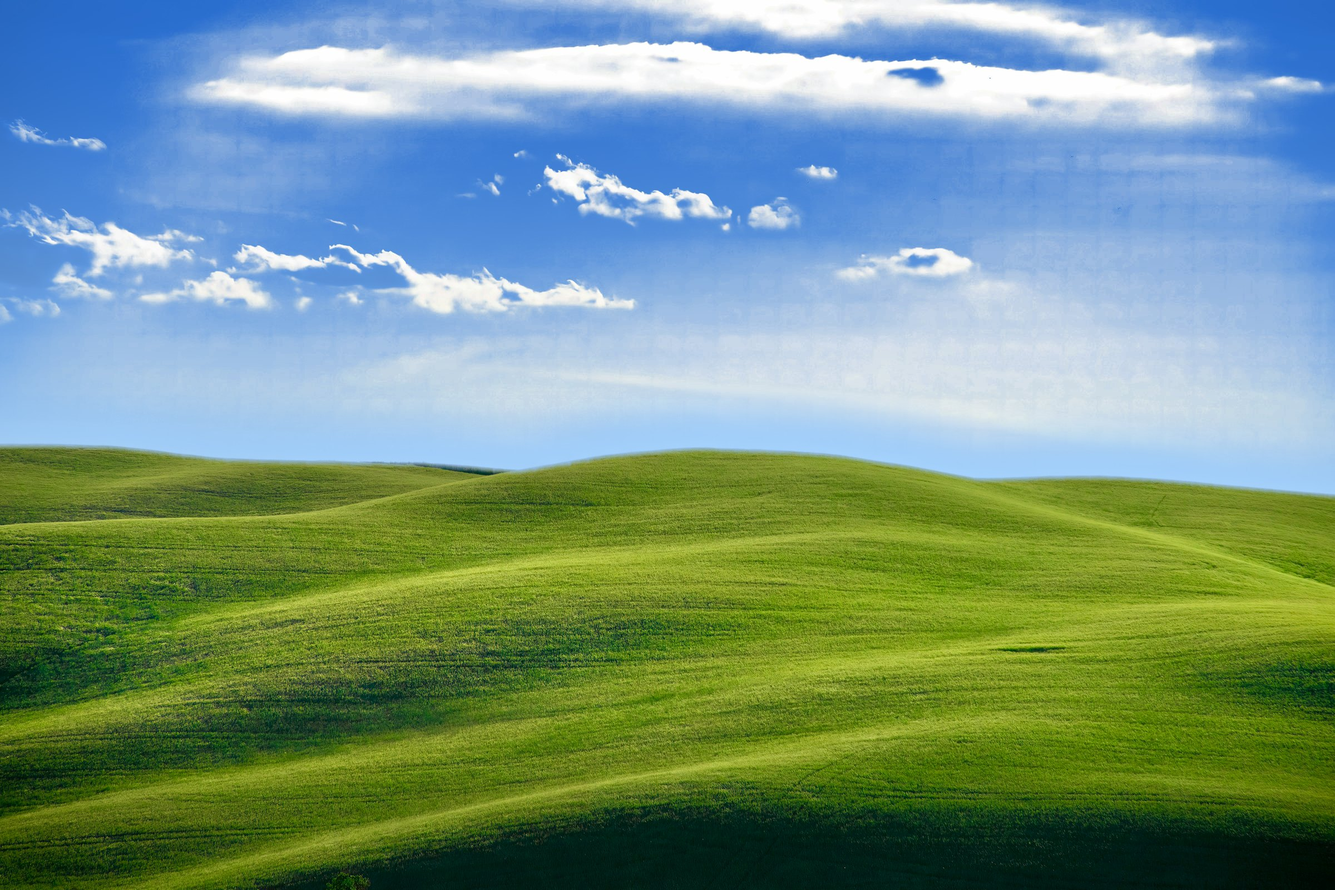
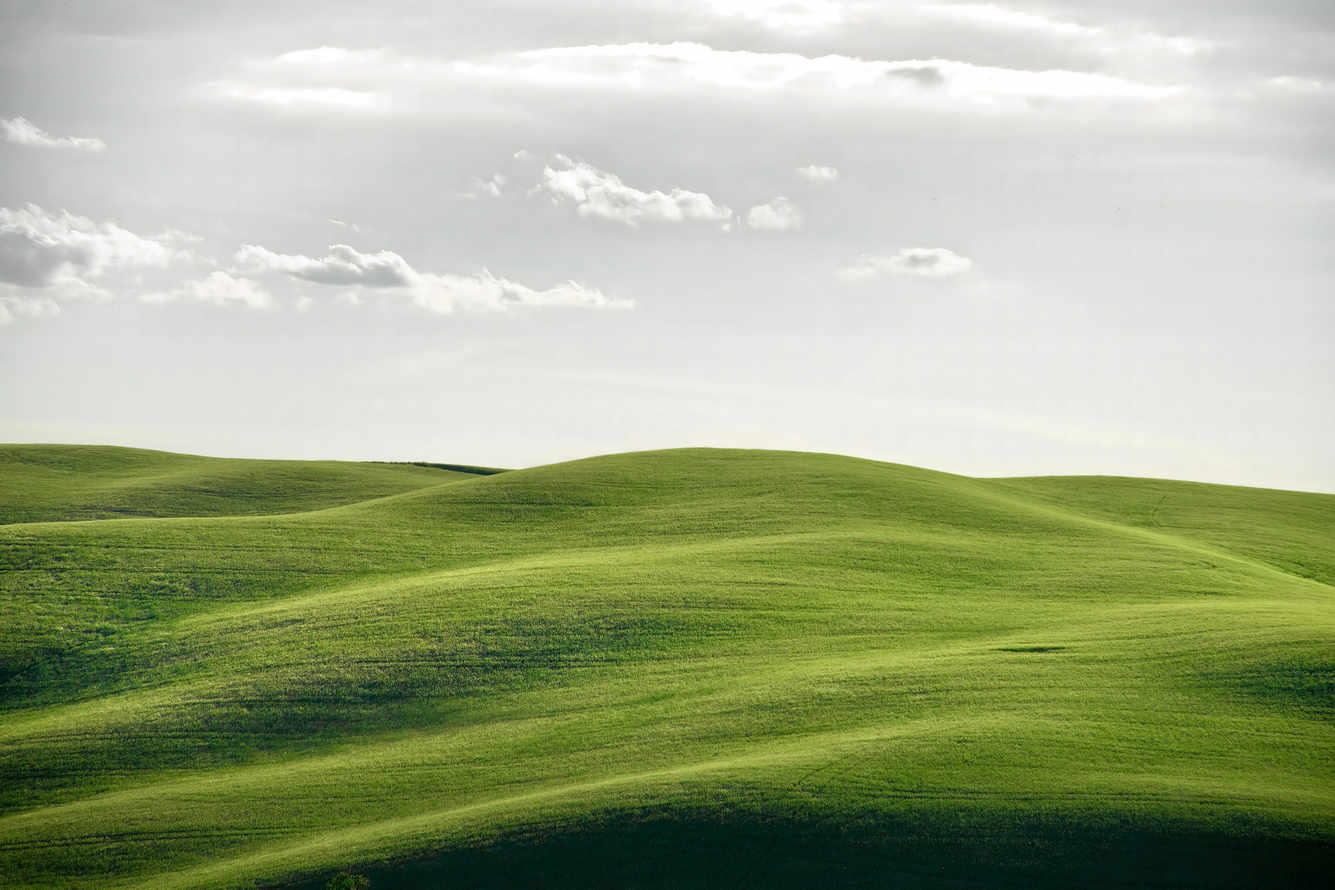
Landing page: original Tuscany photo, bright blue accent
- Back to the unedited photo
- Accent colour is now bright blue instead of orange: buttons, the
  underscores, highlights, delivered tags, and the courier's cap

diff --git a/site/deploy/index.html b/site/deploy/index.html
@@ -11,7 +11,7 @@
 <style>
 /* Layout: dark-first product page. Big confident type and a stat row up top, mono "_names" for
    every product and section, cargo-manifest panels as the one recurring object,
-   container orange as Freighter's product colour. Single dark look by design. */
+   bright blue as Freighter's product colour. Single dark look by design. */
 :root{
   --bg:#0a0b0d;
   --bg-2:#111317;
@@ -21,9 +21,10 @@
   --ink:#f1f2f4;
   --muted:#9aa0aa;
   --dim:#666d78;
-  --cargo:#ff6b1a;          /* Freighter: shipping-container orange */
-  --cargo-ink:#140700;
-  --cargo-soft:rgba(255,107,26,.12);
+  --cargo:#3d8bff;          /* Freighter: bright blue, for text and marks on dark */
+  --cargo-fill:#1671f0;     /* the same blue for filled buttons and tags, deep enough for white text */
+  --cargo-ink:#ffffff;
+  --cargo-soft:rgba(61,139,255,.14);
   --manifest:#7fd1c7;       /* _Manifest: the free scan's own colour */
   --ok:#62d38f;
   --font-display:"Sora","Segoe UI",system-ui,sans-serif;
@@ -58,8 +59,8 @@ body::before{content:"";position:fixed;inset:0 0 auto;height:env(safe-area-inset
 .links a:hover{color:var(--ink)}
 .pill{display:inline-flex;align-items:center;justify-content:center;gap:8px;border-radius:999px;font:600 15px/1 var(--font-body);
   padding:13px 22px;text-decoration:none;border:1px solid transparent;cursor:pointer;white-space:nowrap}
-.pill-cargo{background:var(--cargo);color:var(--cargo-ink)}
-.pill-cargo:hover{background:#ff8340}
+.pill-cargo{background:var(--cargo-fill);color:var(--cargo-ink)}
+.pill-cargo:hover{background:#2f85ff}
 .pill-ghost{background:transparent;color:var(--ink);border-color:var(--line-2)}
 .pill-ghost:hover{border-color:var(--muted)}
 .pill.sm{padding:9px 16px;font-size:14px}
@@ -91,7 +92,7 @@ body::before{content:"";position:fixed;inset:0 0 auto;height:env(safe-area-inset
 .desk .tag{position:absolute;z-index:1;transform:translateX(-50%);white-space:nowrap;font:600 11.5px/1.2 var(--font-body);
   color:#fff;text-shadow:0 1px 2px rgba(0,0,0,.9),0 0 5px rgba(0,0,0,.5);padding:1px 5px;border-radius:3px;
   transition:background .3s;pointer-events:none}
-.desk .tag.done{background:rgba(255,107,26,.92);text-shadow:none;color:var(--cargo-ink)}
+.desk .tag.done{background:var(--cargo-fill);text-shadow:none;color:var(--cargo-ink)}
 .desk .tag.done::before{content:"\2713\00a0"}
 .photo-credit{position:absolute;right:max(10px,env(safe-area-inset-right,0px));bottom:8px;z-index:3;font-size:11px;color:rgba(255,255,255,.75)}
 .photo-credit a{color:inherit}
@@ -158,7 +159,7 @@ ul.ticks li small{display:block;color:var(--dim);font-size:14px}
 /* pricing */
 .price{display:grid;grid-template-columns:repeat(2,minmax(0,1fr));gap:16px}
 .price .card{padding:30px;gap:16px}
-.price .card.hl{border-color:rgba(255,107,26,.55);background:linear-gradient(180deg,rgba(255,107,26,.08),var(--panel) 45%)}
+.price .card.hl{border-color:rgba(61,139,255,.6);background:linear-gradient(180deg,rgba(61,139,255,.10),var(--panel) 45%)}
 .price .name{font-family:var(--font-mono);font-size:24px;font-weight:700}
 .price .name .us{color:var(--manifest)}
 .price .hl .name .us{color:var(--cargo)}
@@ -261,7 +262,7 @@ footer .wrap{display:flex;flex-wrap:wrap;justify-content:space-between;gap:12px}
     </div>
     <canvas id="yard" aria-hidden="true"></canvas>
     <div class="ground" id="ground" role="img" aria-label="Far off on the hills, a pixel-art courier carries crates from an old PC to FL Studio, Ableton Live, Logic Pro and a samples folder."></div>
-    <span class="photo-credit">Photo: <a href="https://unsplash.com/photos/rolling-green-hills-in-tuscany-GnE3JdxgjeA" rel="noopener">Massimiliano Morosinotto / Unsplash</a> (sky recolored)</span>
+    <span class="photo-credit">Photo: <a href="https://unsplash.com/photos/rolling-green-hills-in-tuscany-GnE3JdxgjeA" rel="noopener">Massimiliano Morosinotto / Unsplash</a></span>
   </div>
 
   <div class="strip" aria-label="Supported">
@@ -291,7 +292,7 @@ footer .wrap{display:flex;flex-wrap:wrap;justify-content:space-between;gap:12px}
           <div class="m-row"><span class="crate">P-01</span><span class="what">23 plugins &middot; reinstall list</span><span class="size">7 makers</span></div>
         </div>
         <div class="m-foot"><span>5 crates &middot; checked on arrival</span><b>5.4 GB</b></div>
-        <p class="m-key"><b>Orange crates</b> are what a plain copy of the DAW folder leaves behind.</p>
+        <p class="m-key"><b>Blue crates</b> are what a plain copy of the DAW folder leaves behind.</p>
       </figure>
     </div>
   </section>
@@ -481,8 +482,8 @@ footer .wrap{display:flex;flex-wrap:wrap;justify-content:space-between;gap:12px}
   const still = window.matchMedia && matchMedia("(prefers-reduced-motion: reduce)").matches;
 
   const PAL = {
-    k: "#1b1c20", c: "#ff6b1a", C: "#c44d0b", s: "#f2c39b", S: "#d79c74", e: "#1b1c20",
-    b: "#2d5aa6", B: "#1f3f78", p: "#3a3b46", o: "#7a4c22", O: "#c98c4f", L: "#e2ae6e", t: "#f1e4bb",
+    k: "#1b1c20", c: "#2f8cff", C: "#1659c7", s: "#f2c39b", S: "#d79c74", e: "#1b1c20",
+    b: "#eef1f5", B: "#c3cad3", p: "#3a3b46", o: "#7a4c22", O: "#c98c4f", L: "#e2ae6e", t: "#f1e4bb",
   };
   const BODY = [
     "...kkkkk....",

diff --git a/site/landing.html b/site/landing.html
@@ -7,7 +7,7 @@
 <style>
 /* Layout: dark-first product page. Big confident type and a stat row up top, mono "_names" for
    every product and section, cargo-manifest panels as the one recurring object,
-   container orange as Freighter's product colour. Single dark look by design. */
+   bright blue as Freighter's product colour. Single dark look by design. */
 :root{
   --bg:#0a0b0d;
   --bg-2:#111317;
@@ -17,9 +17,10 @@
   --ink:#f1f2f4;
   --muted:#9aa0aa;
   --dim:#666d78;
-  --cargo:#ff6b1a;          /* Freighter: shipping-container orange */
-  --cargo-ink:#140700;
-  --cargo-soft:rgba(255,107,26,.12);
+  --cargo:#3d8bff;          /* Freighter: bright blue, for text and marks on dark */
+  --cargo-fill:#1671f0;     /* the same blue for filled buttons and tags, deep enough for white text */
+  --cargo-ink:#ffffff;
+  --cargo-soft:rgba(61,139,255,.14);
   --manifest:#7fd1c7;       /* _Manifest: the free scan's own colour */
   --ok:#62d38f;
   --font-display:"Sora","Segoe UI",system-ui,sans-serif;
@@ -54,8 +55,8 @@ body::before{content:"";position:fixed;inset:0 0 auto;height:env(safe-area-inset
 .links a:hover{color:var(--ink)}
 .pill{display:inline-flex;align-items:center;justify-content:center;gap:8px;border-radius:999px;font:600 15px/1 var(--font-body);
   padding:13px 22px;text-decoration:none;border:1px solid transparent;cursor:pointer;white-space:nowrap}
-.pill-cargo{background:var(--cargo);color:var(--cargo-ink)}
-.pill-cargo:hover{background:#ff8340}
+.pill-cargo{background:var(--cargo-fill);color:var(--cargo-ink)}
+.pill-cargo:hover{background:#2f85ff}
 .pill-ghost{background:transparent;color:var(--ink);border-color:var(--line-2)}
 .pill-ghost:hover{border-color:var(--muted)}
 .pill.sm{padding:9px 16px;font-size:14px}
@@ -87,7 +88,7 @@ body::before{content:"";position:fixed;inset:0 0 auto;height:env(safe-area-inset
 .desk .tag{position:absolute;z-index:1;transform:translateX(-50%);white-space:nowrap;font:600 11.5px/1.2 var(--font-body);
   color:#fff;text-shadow:0 1px 2px rgba(0,0,0,.9),0 0 5px rgba(0,0,0,.5);padding:1px 5px;border-radius:3px;
   transition:background .3s;pointer-events:none}
-.desk .tag.done{background:rgba(255,107,26,.92);text-shadow:none;color:var(--cargo-ink)}
+.desk .tag.done{background:var(--cargo-fill);text-shadow:none;color:var(--cargo-ink)}
 .desk .tag.done::before{content:"\2713\00a0"}
 .photo-credit{position:absolute;right:max(10px,env(safe-area-inset-right,0px));bottom:8px;z-index:3;font-size:11px;color:rgba(255,255,255,.75)}
 .photo-credit a{color:inherit}
@@ -154,7 +155,7 @@ ul.ticks li small{display:block;color:var(--dim);font-size:14px}
 /* pricing */
 .price{display:grid;grid-template-columns:repeat(2,minmax(0,1fr));gap:16px}
 .price .card{padding:30px;gap:16px}
-.price .card.hl{border-color:rgba(255,107,26,.55);background:linear-gradient(180deg,rgba(255,107,26,.08),var(--panel) 45%)}
+.price .card.hl{border-color:rgba(61,139,255,.6);background:linear-gradient(180deg,rgba(61,139,255,.10),var(--panel) 45%)}
 .price .name{font-family:var(--font-mono);font-size:24px;font-weight:700}
 .price .name .us{color:var(--manifest)}
 .price .hl .name .us{color:var(--cargo)}
@@ -254,7 +255,7 @@ footer .wrap{display:flex;flex-wrap:wrap;justify-content:space-between;gap:12px}
     </div>
     <canvas id="yard" aria-hidden="true"></canvas>
     <div class="ground" id="ground" role="img" aria-label="Far off on the hills, a pixel-art courier carries crates from an old PC to FL Studio, Ableton Live, Logic Pro and a samples folder."></div>
-    <span class="photo-credit">Photo: <a href="https://unsplash.com/photos/rolling-green-hills-in-tuscany-GnE3JdxgjeA" rel="noopener">Massimiliano Morosinotto / Unsplash</a> (sky recolored)</span>
+    <span class="photo-credit">Photo: <a href="https://unsplash.com/photos/rolling-green-hills-in-tuscany-GnE3JdxgjeA" rel="noopener">Massimiliano Morosinotto / Unsplash</a></span>
   </div>
 
   <div class="strip" aria-label="Supported">
@@ -284,7 +285,7 @@ footer .wrap{display:flex;flex-wrap:wrap;justify-content:space-between;gap:12px}
           <div class="m-row"><span class="crate">P-01</span><span class="what">23 plugins &middot; reinstall list</span><span class="size">7 makers</span></div>
         </div>
         <div class="m-foot"><span>5 crates &middot; checked on arrival</span><b>5.4 GB</b></div>
-        <p class="m-key"><b>Orange crates</b> are what a plain copy of the DAW folder leaves behind.</p>
+        <p class="m-key"><b>Blue crates</b> are what a plain copy of the DAW folder leaves behind.</p>
       </figure>
     </div>
   </section>
@@ -474,8 +475,8 @@ footer .wrap{display:flex;flex-wrap:wrap;justify-content:space-between;gap:12px}
   const still = window.matchMedia && matchMedia("(prefers-reduced-motion: reduce)").matches;
 
   const PAL = {
-    k: "#1b1c20", c: "#ff6b1a", C: "#c44d0b", s: "#f2c39b", S: "#d79c74", e: "#1b1c20",
-    b: "#2d5aa6", B: "#1f3f78", p: "#3a3b46", o: "#7a4c22", O: "#c98c4f", L: "#e2ae6e", t: "#f1e4bb",
+    k: "#1b1c20", c: "#2f8cff", C: "#1659c7", s: "#f2c39b", S: "#d79c74", e: "#1b1c20",
+    b: "#eef1f5", B: "#c3cad3", p: "#3a3b46", o: "#7a4c22", O: "#c98c4f", L: "#e2ae6e", t: "#f1e4bb",
   };
   const BODY = [
     "...kkkkk....",
